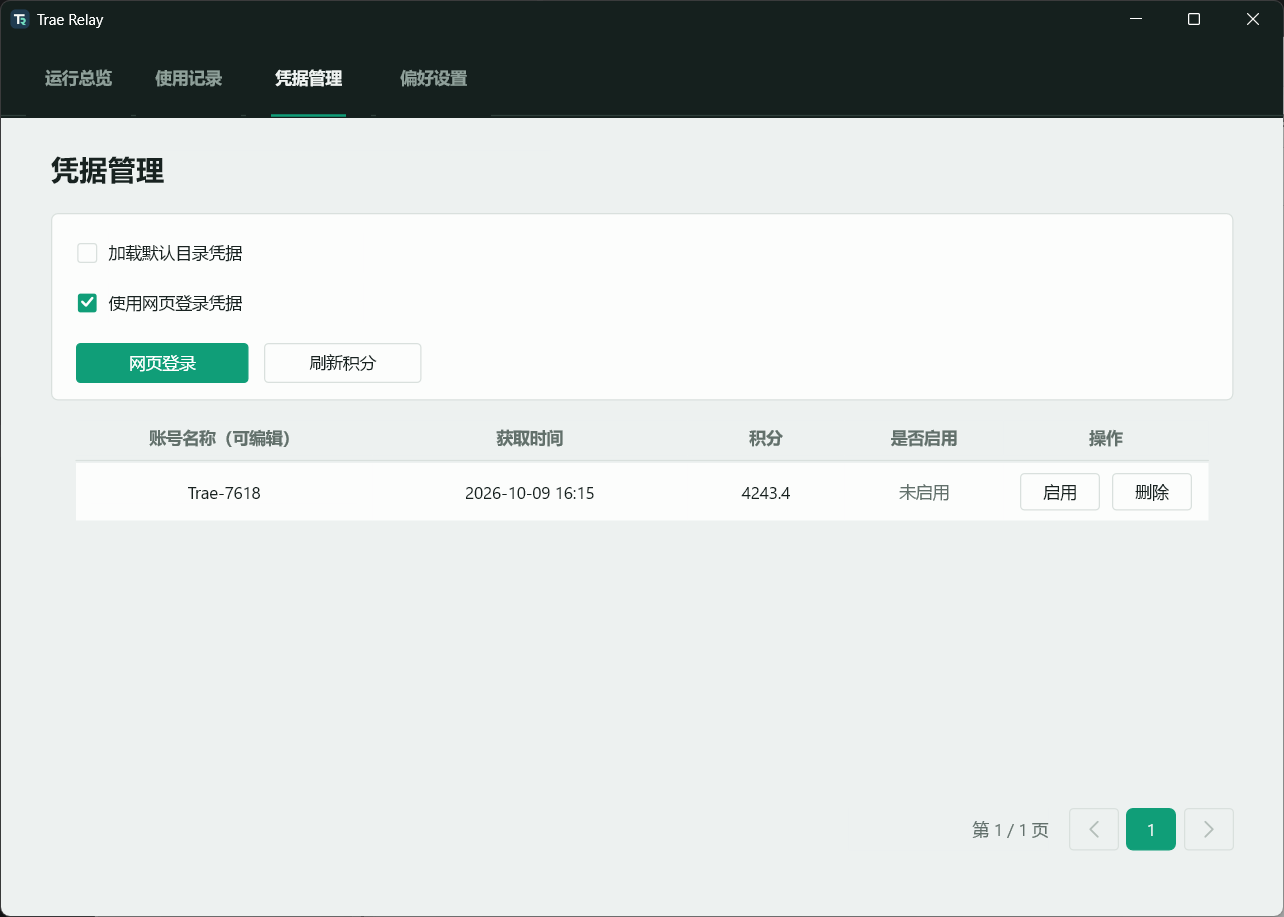
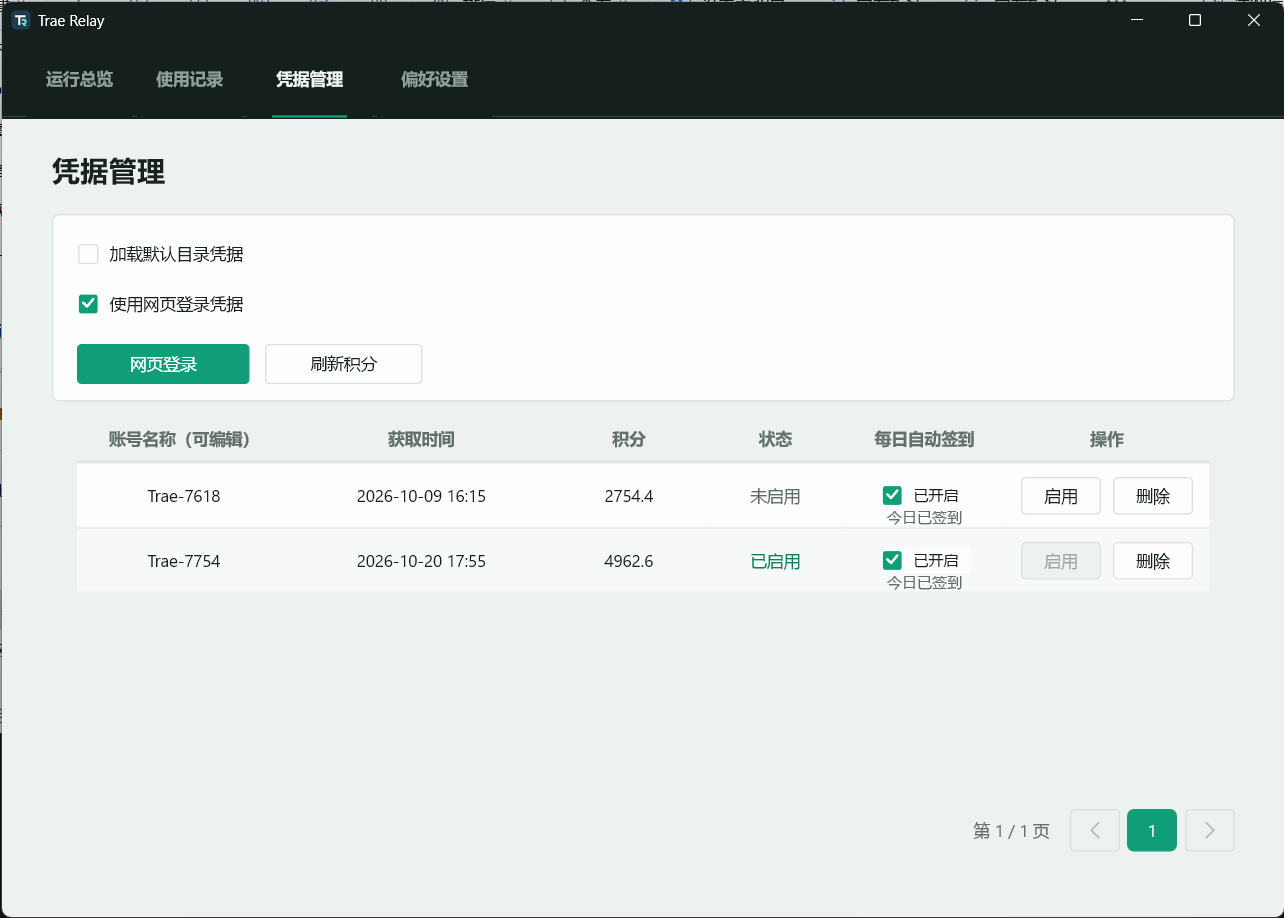
docs: 更新 README 支持说明与预览图
- 说明仅支持 Trae 国内版
- 更新两张文档预览截图

diff --git a/README.md b/README.md
@@ -2,9 +2,9 @@
 
 Windows 原生的 Trae 本地 API 转接工具，支持通过网页登录或读取本地 Trae 登录凭据，将 Trae 账号提供为 OpenAI 兼容接口。单个 EXE 即可运行，无需 Python、Node.js 或 Docker。
 
-目前主要验证 Traecode CN，Trae Work 请自行测试，国际版大概率用不了。
+目前仅支持trae国内版，国际版大概率用不了。
 
-球球大家点个star吧！球球啦！
+好用记得点个star！球球大家点个star吧！球球啦！
 
 ## 预览
 
